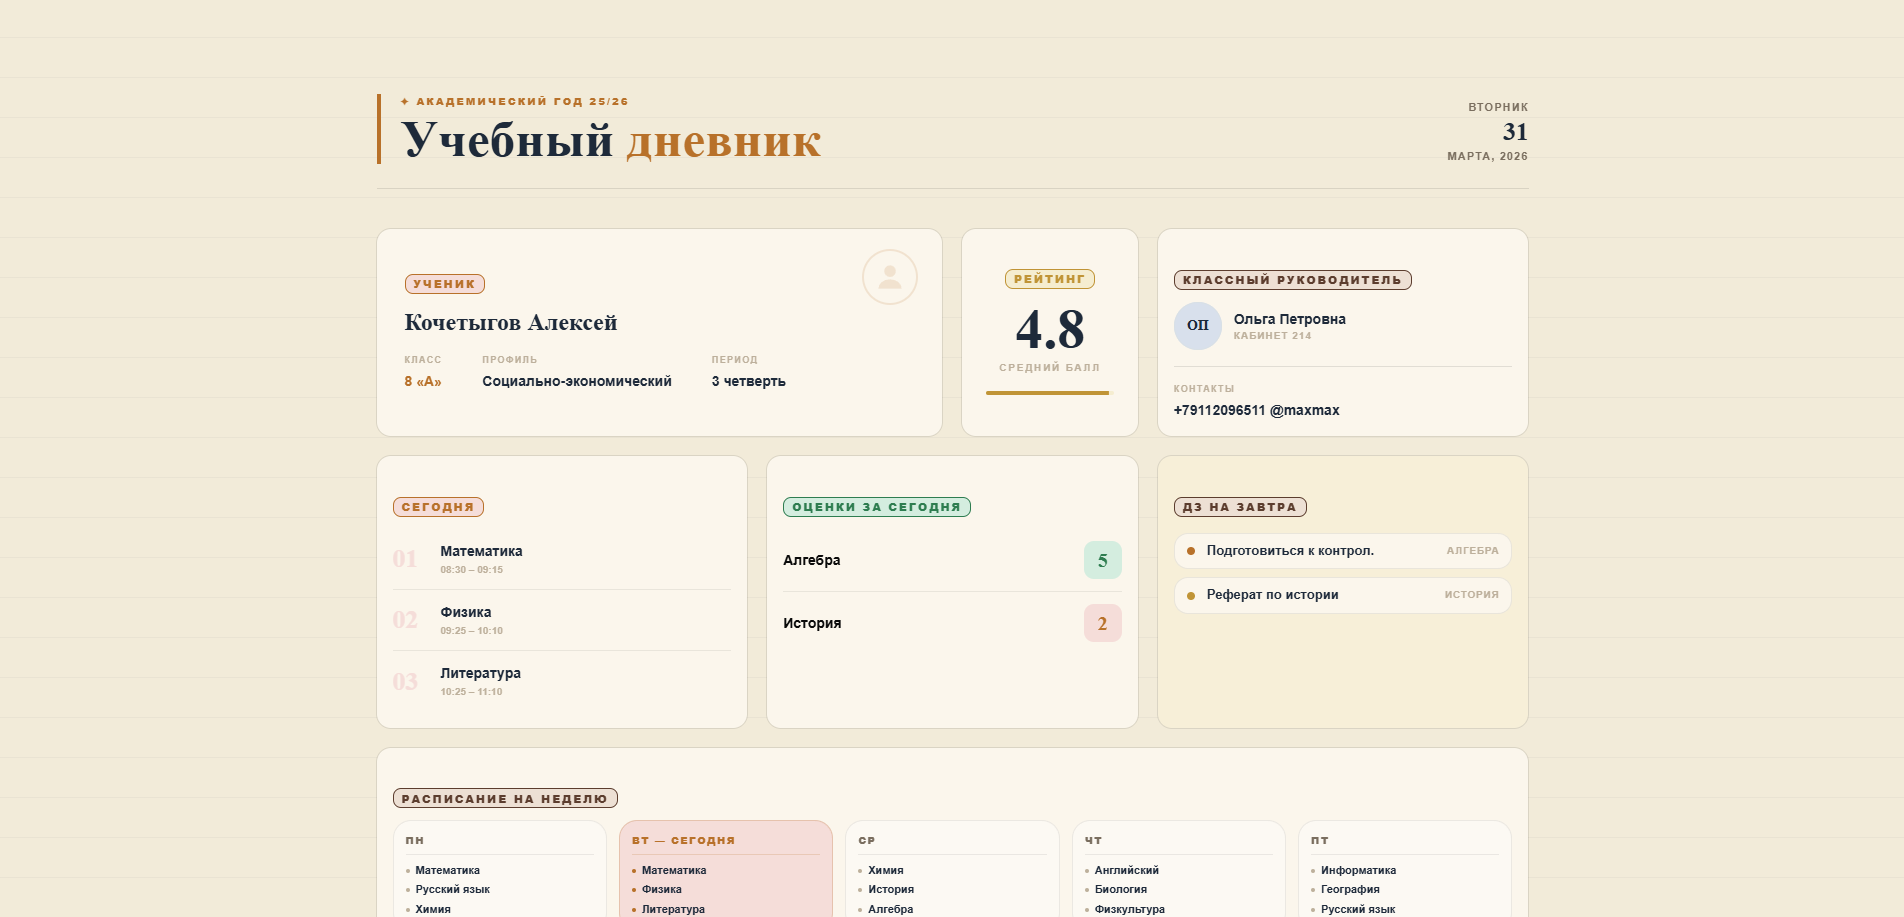
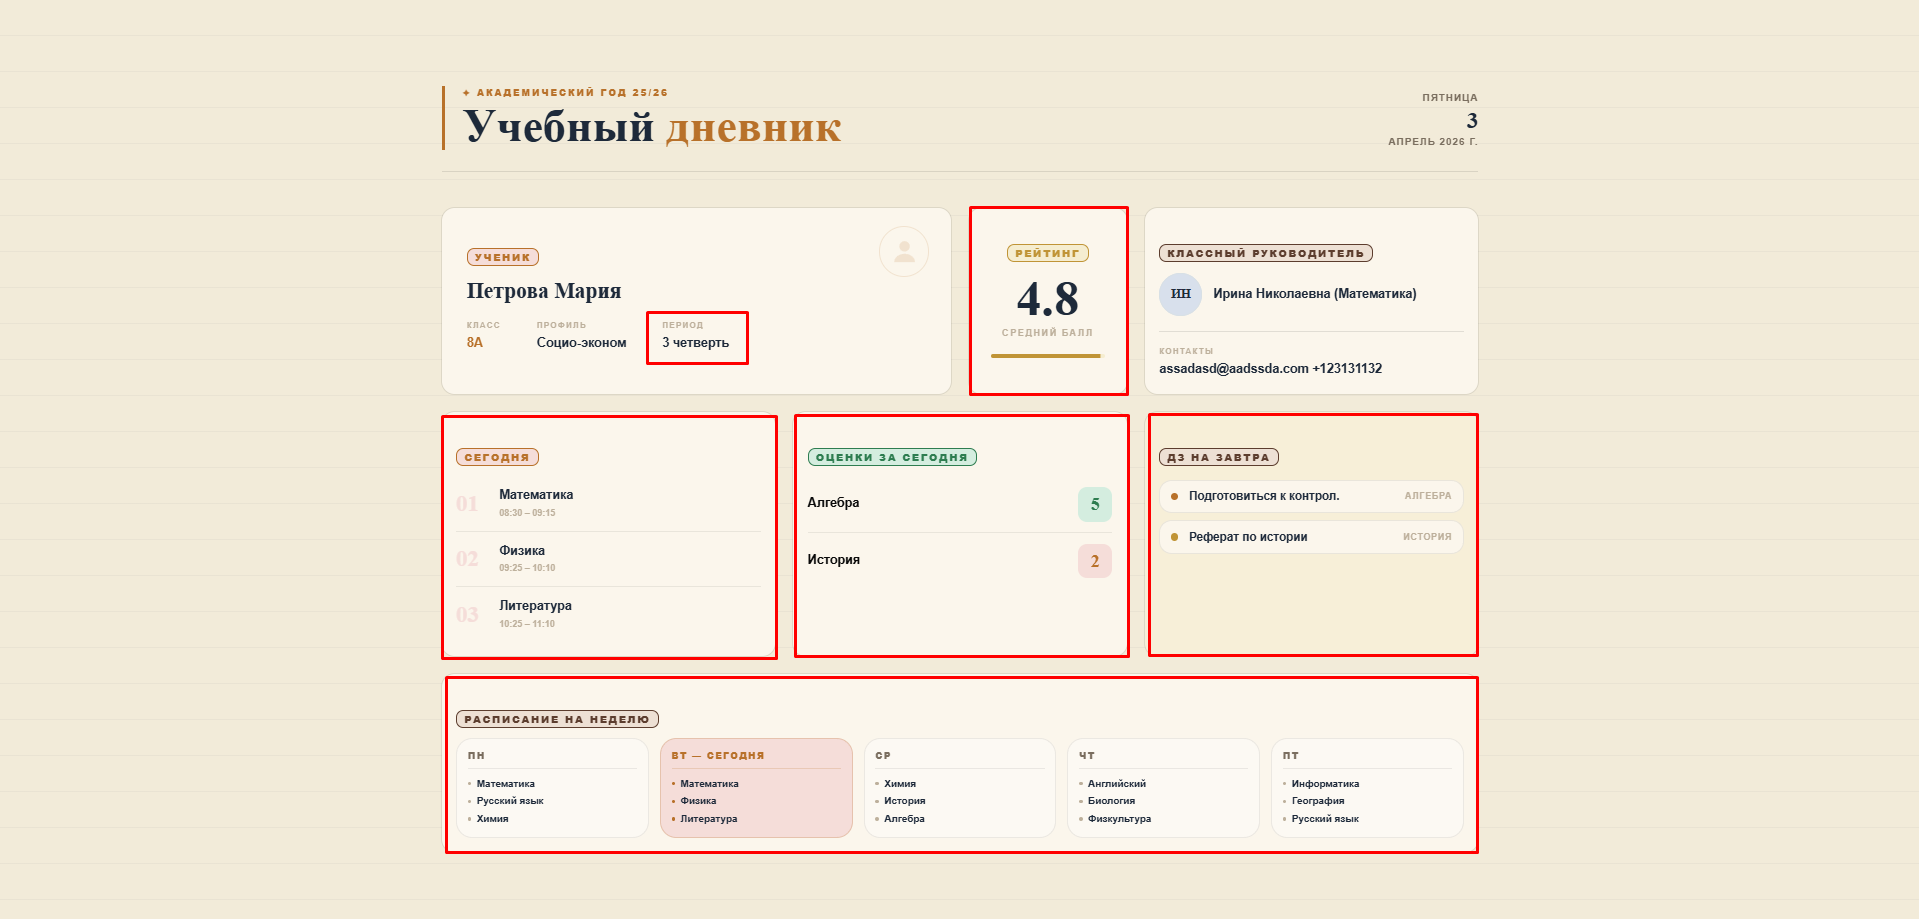
docs: обновил README

diff --git a/README.md b/README.md
@@ -28,5 +28,6 @@
 ### Структура бд
 ![structure](diagram.png)
 
-### Макет фронта
+### Макеты фронта
+#### красная рамка - заглушки
 ![maket](img.png)
